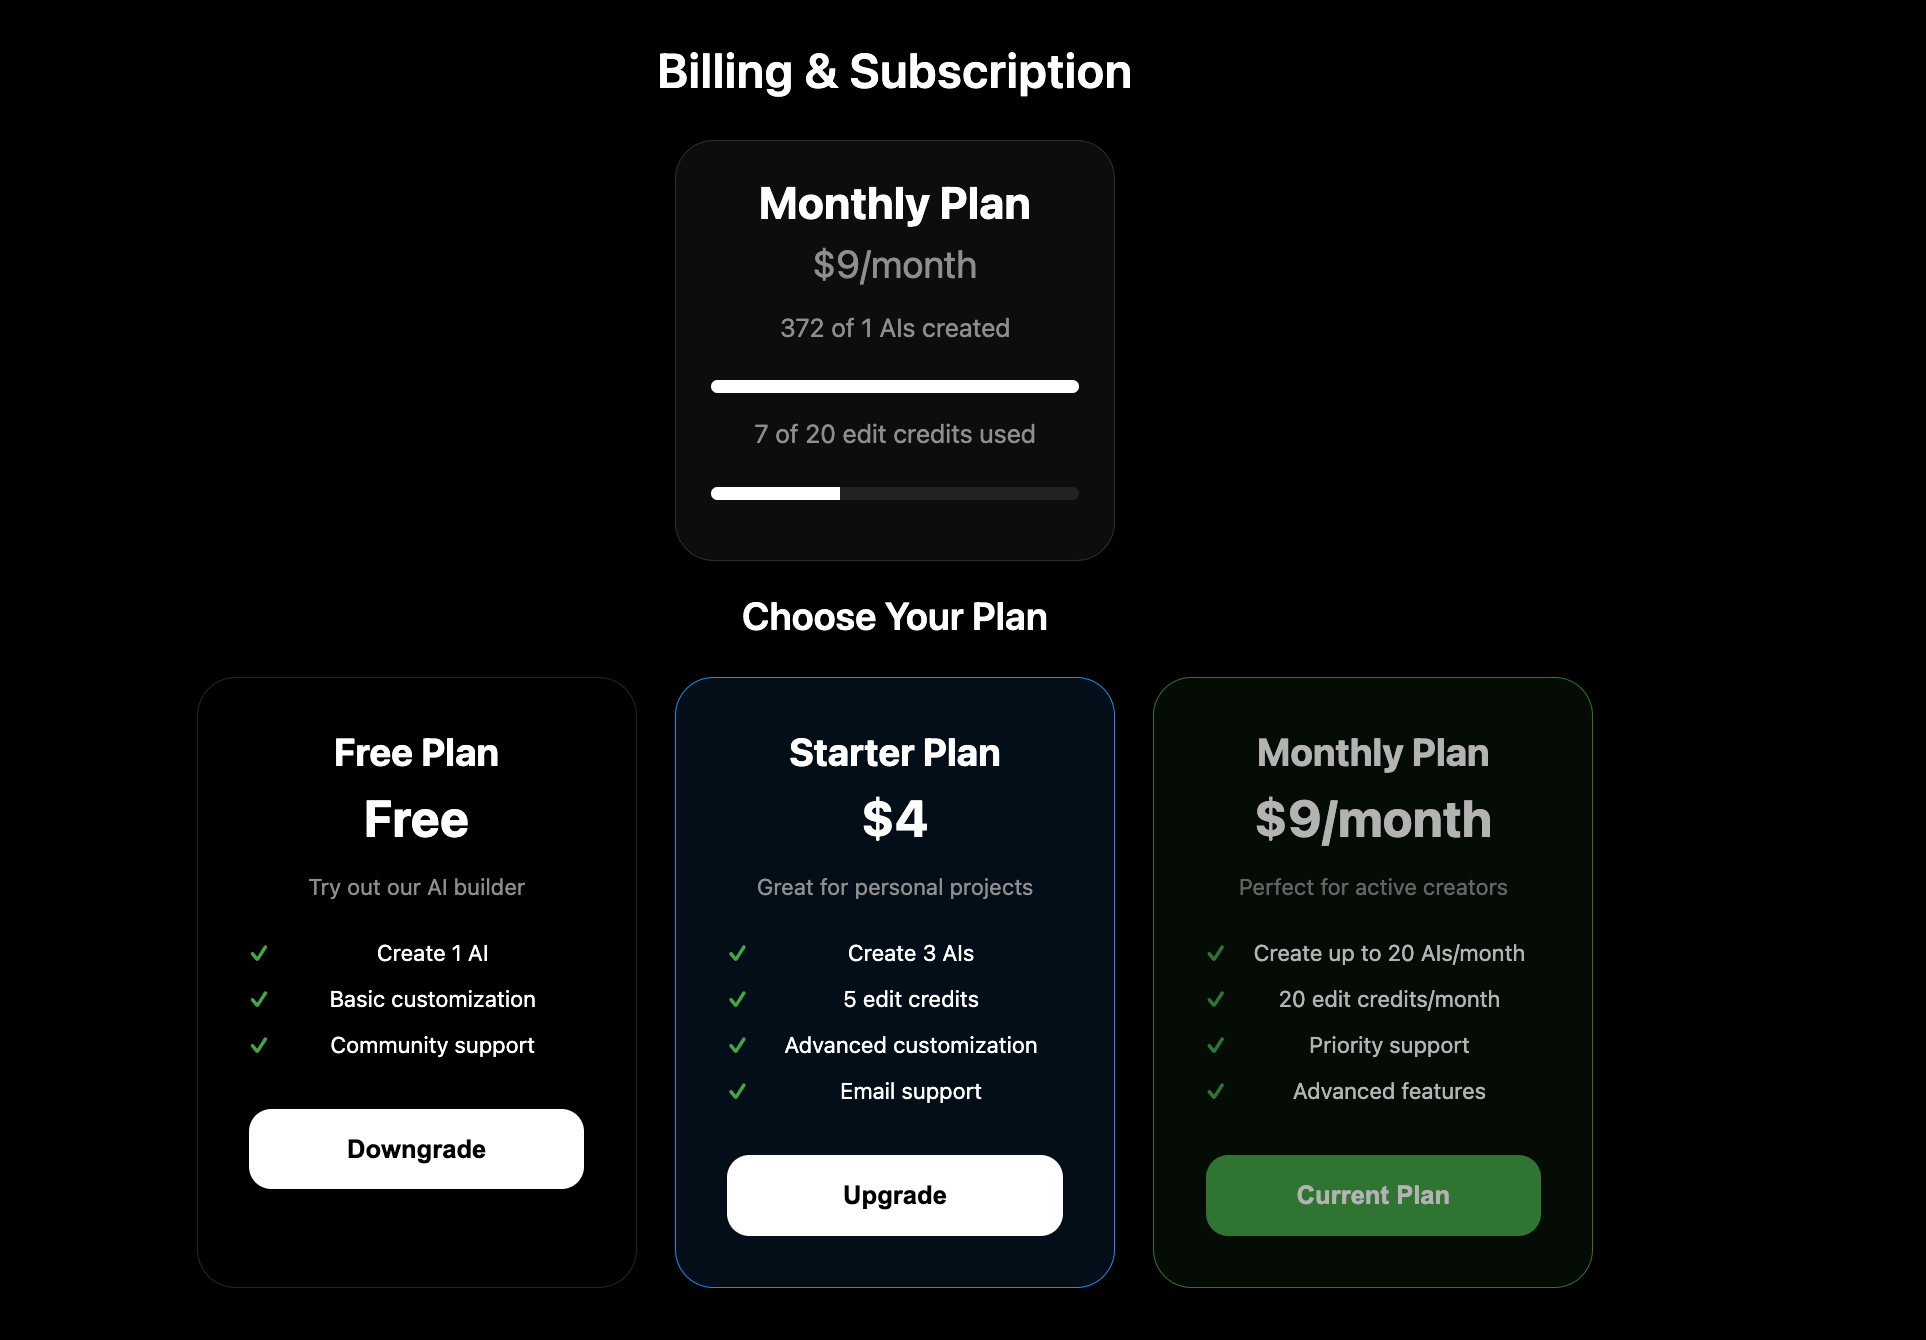
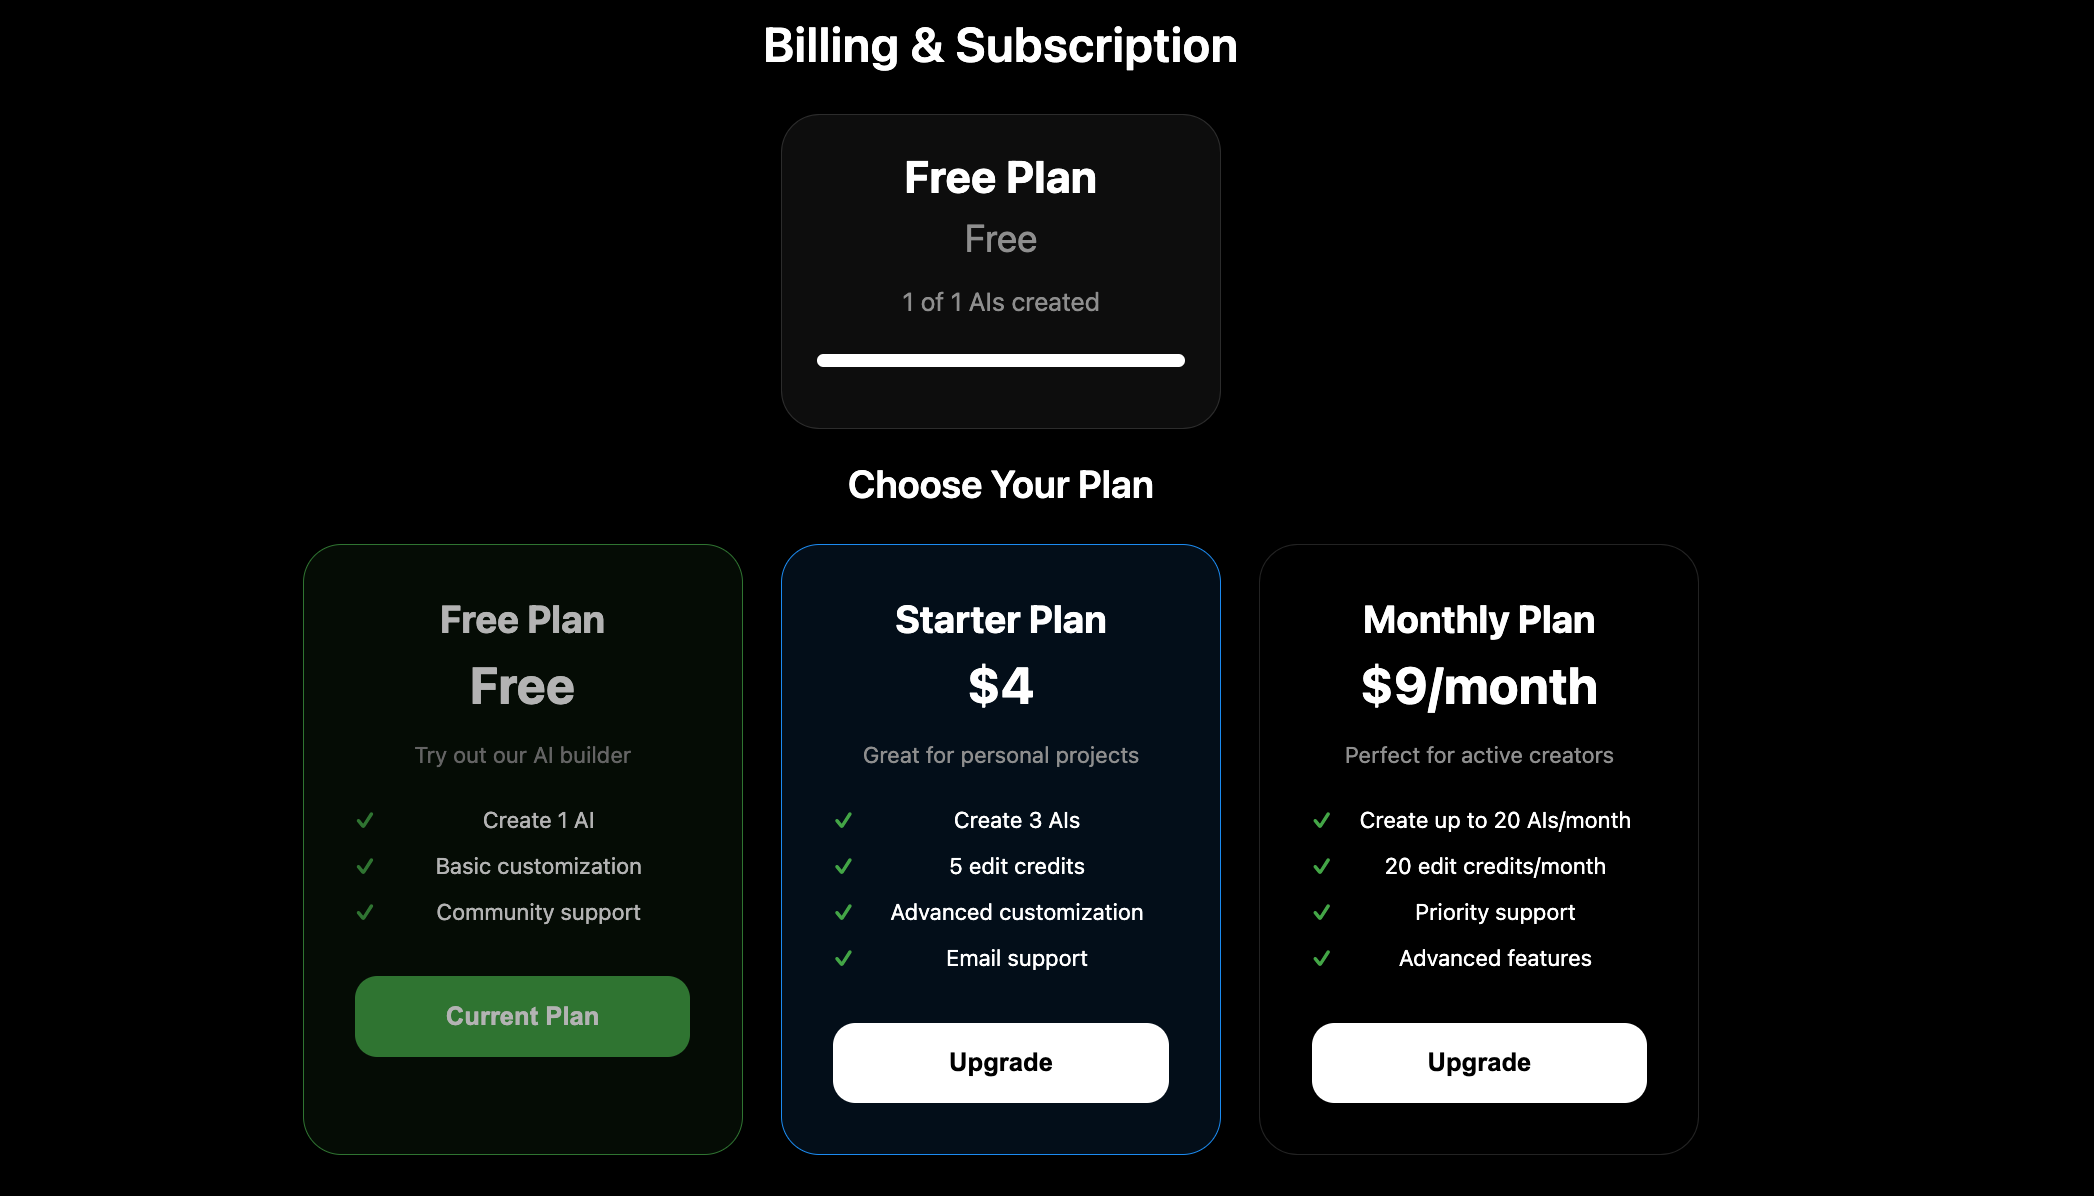
landing page final

diff --git a/auth.html b/auth.html
@@ -375,6 +375,48 @@ body {
   max-height: 55vh;
 }
 
+/* Mobile showcase slide - all images same size */
+.carousel-slide.mobile-showcase {
+  flex-direction: column;
+  justify-content: center;
+  gap: 20px;
+}
+
+.mobile-showcase .mobile-text {
+  text-align: center;
+  max-width: 800px;
+}
+
+.mobile-showcase .mobile-text h2 {
+  font-size: 32px;
+  font-weight: 600;
+  margin: 0 0 12px 0;
+}
+
+.mobile-showcase .mobile-text p {
+  font-size: 18px;
+  color: var(--muted);
+  line-height: 1.5;
+  margin: 0;
+}
+
+.mobile-showcase .mobile-images {
+  display: flex;
+  gap: 20px;
+  justify-content: center;
+  align-items: center;
+  flex-wrap: wrap;
+}
+
+.mobile-showcase .mobile-images img {
+  max-width: 22%;
+  max-height: 50vh;
+  height: auto;
+  border-radius: 12px;
+  box-shadow: 0 8px 32px rgba(0, 0, 0, 0.5);
+  flex: 0 1 auto;
+}
+
 .carousel-image {
   flex: 1;
   max-width: 60%;
@@ -535,6 +577,19 @@ body {
     font-size: 16px;
   }
 
+  .mobile-showcase .mobile-images img {
+    max-width: 28%;
+    max-height: 35vh;
+  }
+
+  .mobile-showcase .mobile-text h2 {
+    font-size: 24px;
+  }
+
+  .mobile-showcase .mobile-text p {
+    font-size: 16px;
+  }
+
   .carousel-content h2 {
     font-size: 22px;
   }
@@ -610,6 +665,23 @@ body {
   }
 
   .hero-slide .hero-text p {
+    font-size: 14px;
+  }
+
+  .mobile-showcase .mobile-images {
+    gap: 12px;
+  }
+
+  .mobile-showcase .mobile-images img {
+    max-width: 26%;
+    max-height: 25vh;
+  }
+
+  .mobile-showcase .mobile-text h2 {
+    font-size: 20px;
+  }
+
+  .mobile-showcase .mobile-text p {
     font-size: 14px;
   }
 
@@ -711,7 +783,18 @@ body {
             </div>
           </div>
 
-          <!-- Slide 3: Builder Interface -->
+          <!-- Slide 3: Library -->
+          <div class="carousel-slide">
+            <div class="carousel-image">
+              <img src="landing_images/library_image.png" alt="AI Assistant Library">
+            </div>
+            <div class="carousel-content">
+              <h2>An AI for Every Task</h2>
+              <p>Build your personal library of specialized AI assistants. Create unique characters optimized for different tasks, conversations, and contexts.</p>
+            </div>
+          </div>
+
+          <!-- Slide 4: Builder Interface -->
           <div class="carousel-slide">
             <div class="carousel-image">
               <img src="landing_images/builder_interface.png" alt="Character Builder Interface">
@@ -722,7 +805,7 @@ body {
             </div>
           </div>
 
-          <!-- Slide 4: Personality Edit -->
+          <!-- Slide 5: Personality Edit -->
           <div class="carousel-slide">
             <div class="carousel-image">
               <img src="landing_images/personality_edit.png" alt="Personality Customization">
@@ -733,18 +816,20 @@ body {
             </div>
           </div>
 
-          <!-- Slide 5: Mobile Chat -->
-          <div class="carousel-slide">
-            <div class="carousel-image">
-              <img src="landing_images/mobile_chat.PNG" alt="Mobile Chat Experience">
+          <!-- Slide 6: Mobile Experience Showcase -->
+          <div class="carousel-slide mobile-showcase">
+            <div class="mobile-text">
+              <h2>Full Mobile Experience</h2>
+              <p>Chat, edit, and customize your AI assistants seamlessly on any mobile device</p>
             </div>
-            <div class="carousel-content">
-              <h2>Chat Anywhere</h2>
-              <p>Seamlessly chat with your AI assistants on any device. Fully responsive design ensures a great experience on desktop, tablet, and mobile.</p>
+            <div class="mobile-images">
+              <img src="landing_images/mobile_chat.PNG" alt="Mobile Chat Experience">
+              <img src="landing_images/mobile_personality.PNG" alt="Mobile Personality Editor">
+              <img src="landing_images/mobile_questions.PNG" alt="Mobile Interface">
             </div>
           </div>
 
-          <!-- Slide 6: Edit History -->
+          <!-- Slide 7: Edit History -->
           <div class="carousel-slide">
             <div class="carousel-image">
               <img src="landing_images/edit_history.png" alt="Edit History Feature">
@@ -755,7 +840,7 @@ body {
             </div>
           </div>
 
-          <!-- Slide 7: Conversation History -->
+          <!-- Slide 8: Conversation History -->
           <div class="carousel-slide">
             <div class="carousel-image">
               <img src="landing_images/conversation_history.png" alt="Conversation History">
@@ -763,28 +848,6 @@ body {
             <div class="carousel-content">
               <h2>Never Lose Context</h2>
               <p>All your conversations are saved and organized. Pick up where you left off or reference past discussions anytime.</p>
-            </div>
-          </div>
-
-          <!-- Slide 7: Mobile Personality -->
-          <div class="carousel-slide">
-            <div class="carousel-image">
-              <img src="landing_images/mobile_personality.PNG" alt="Mobile Personality Editor">
-            </div>
-            <div class="carousel-content">
-              <h2>Edit On The Go</h2>
-              <p>Full editing capabilities on mobile. Adjust personality traits and settings wherever inspiration strikes.</p>
-            </div>
-          </div>
-
-          <!-- Slide 8: Mobile Questions -->
-          <div class="carousel-slide">
-            <div class="carousel-image">
-              <img src="landing_images/mobile_questions.PNG" alt="Mobile Interface">
-            </div>
-            <div class="carousel-content">
-              <h2>Optimized Mobile Experience</h2>
-              <p>Every feature works beautifully on mobile. Create, edit, and chat with your AI assistants from your phone.</p>
             </div>
           </div>
 
@@ -1145,25 +1208,43 @@ body {
       if (e.key === 'ArrowRight') nextSlide();
     });
 
-    // Touch/swipe support for mobile
+    // Enhanced touch/swipe support for mobile
     let touchStartX = 0;
     let touchEndX = 0;
+    let touchStartY = 0;
+    let touchEndY = 0;
+    let isSwiping = false;
 
     track.addEventListener('touchstart', (e) => {
       touchStartX = e.changedTouches[0].screenX;
-    });
+      touchStartY = e.changedTouches[0].screenY;
+      isSwiping = true;
+    }, { passive: true });
+
+    track.addEventListener('touchmove', (e) => {
+      if (!isSwiping) return;
+      touchEndX = e.changedTouches[0].screenX;
+      touchEndY = e.changedTouches[0].screenY;
+    }, { passive: true });
 
     track.addEventListener('touchend', (e) => {
-      touchEndX = e.changedTouches[0].screenX;
+      if (!isSwiping) return;
+      isSwiping = false;
       handleSwipe();
-    });
+    }, { passive: true });
 
     function handleSwipe() {
       const swipeThreshold = 50;
-      if (touchStartX - touchEndX > swipeThreshold) {
-        nextSlide();
-      } else if (touchEndX - touchStartX > swipeThreshold) {
-        prevSlide();
+      const horizontalDiff = Math.abs(touchStartX - touchEndX);
+      const verticalDiff = Math.abs(touchStartY - touchEndY);
+      
+      // Only treat as horizontal swipe if horizontal movement is greater than vertical
+      if (horizontalDiff > verticalDiff && horizontalDiff > swipeThreshold) {
+        if (touchStartX - touchEndX > swipeThreshold) {
+          nextSlide();
+        } else if (touchEndX - touchStartX > swipeThreshold) {
+          prevSlide();
+        }
       }
     }
 
